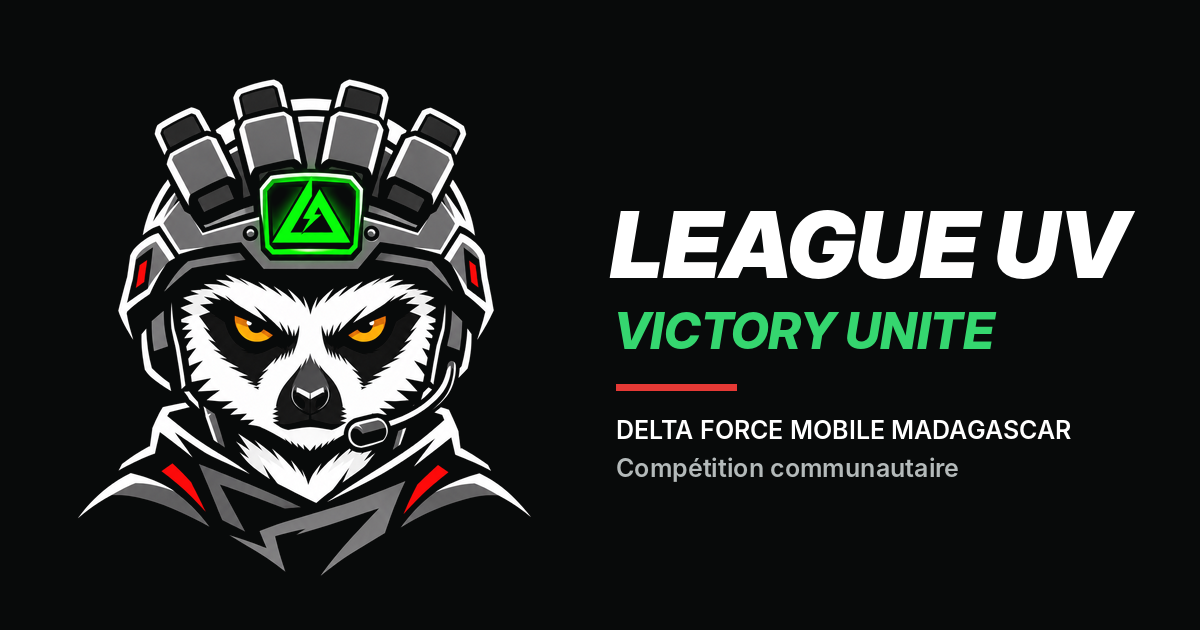
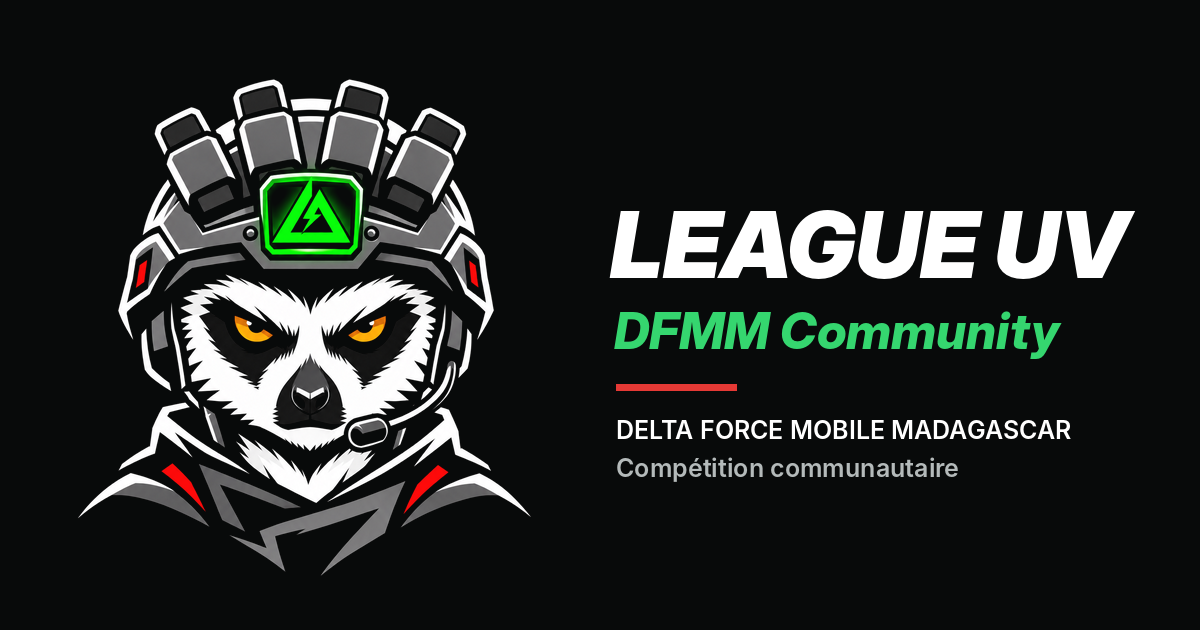
Image de partage : « DFMM Community » à la place de « Victory Unite » (demande de Katana)
Claude-Session: https://claude.ai/code/session_01PV2xDVJG9sZcwiZDQqnKU7

Changed region(s): [[0.4933, 0.4825, 0.8942, 0.573]]

diff --git a/index.html b/index.html
@@ -20,7 +20,7 @@
 <meta property="og:image:type" content="image/png">
 <meta property="og:image:width" content="1200">
 <meta property="og:image:height" content="630">
-<meta property="og:image:alt" content="Logo DFMM et titre LEAGUE UV — Victory Unite">
+<meta property="og:image:alt" content="Logo DFMM, titre LEAGUE UV et DFMM Community">
 <meta name="twitter:card" content="summary_large_image">
 <link rel="preconnect" href="https://fonts.googleapis.com">
 <link rel="preconnect" href="https://fonts.gstatic.com" crossorigin>
